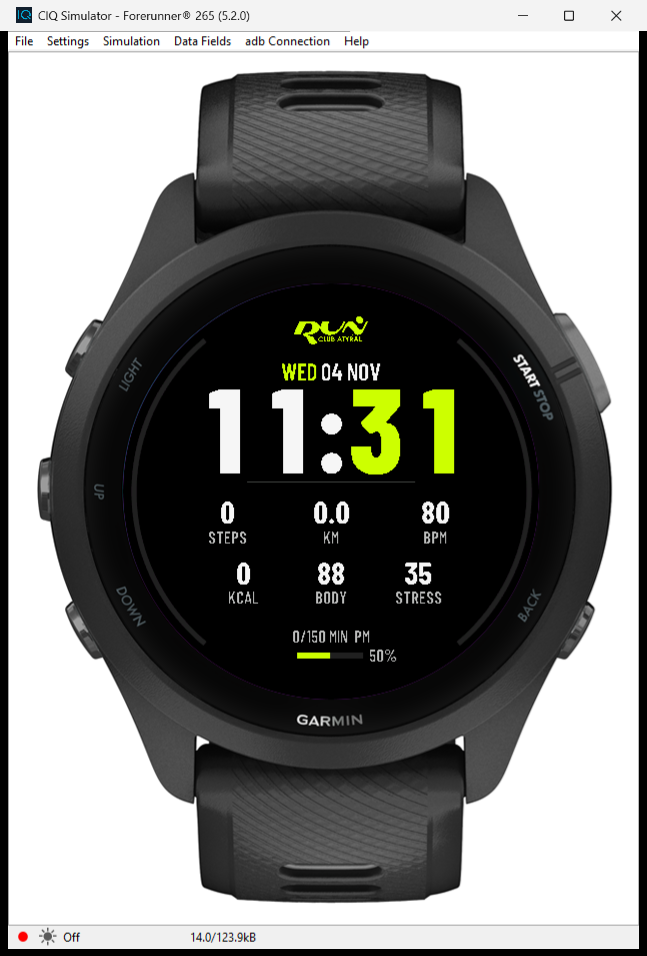
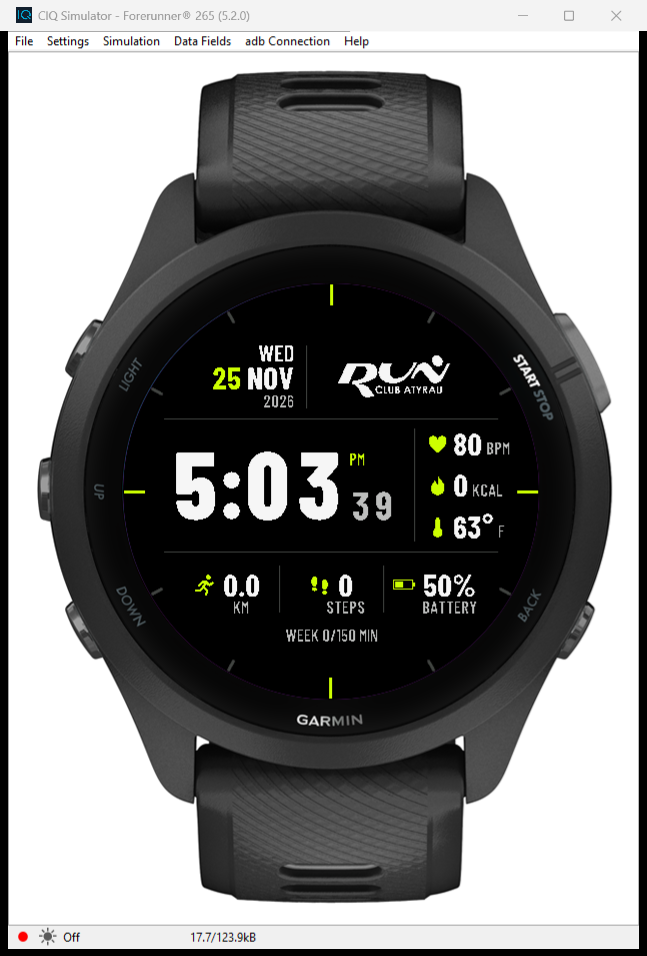
Update README and fr265 preview for the dashboard layout

diff --git a/README.md b/README.md
@@ -6,23 +6,25 @@ Second Run Club Atyrau face. Built on the structure of `../runclub-garmin` (same
 
 ## Layout
 
+Dashboard grid split by thin graphite lines, inspired by a reference mock-up:
+
 | Zone | Content |
 | --- | --- |
-| Top | Small lime club logo (EST masked) |
-| Date | `WED` lime + `04 NOV` white |
-| Clock | Hours white, minutes lime, Barlow ExtraBold; follows 12/24h |
-| Grid row 1 | STEPS · KM · BPM |
-| Grid row 2 | KCAL · BODY (Body Battery) · STRESS |
-| Footer | Weekly intensity minutes `85/150 MIN` (+ AM/PM), battery bar + % |
-| Bezel left | Daily step-goal ring, fills bottom→top |
-| Bezel right | Weekly intensity-minutes ring, fills bottom→top |
+| Bezel | Ticks every 30°, lime at 12/3/6/9 |
+| Top | Date block (`WED` / lime `25` + `NOV` / year) beside the white club logo |
+| Middle | Large `HH:MM`, grey seconds, lime AM/PM in 12-hour mode |
+| Right column | Heart rate · calories · temperature, with lime icons |
+| Bottom row | Distance · steps · battery |
+| Footer | Weekly intensity minutes `WEEK 85/150 MIN` |
 
-Palette is the club's: black, lime `#CCFF00`, white `#F4F4F4`, secondary `#BEBEBE`, graphite for tracks. Layout fractions live in `source/DesignTokens.mc`. Battery bar turns white at ≤15%.
+Palette is the club's: black, lime `#CCFF00`, white `#F4F4F4`, secondary `#BEBEBE`, graphite for lines. Layout fractions live in `source/DesignTokens.mc`. Battery fill turns white at 15% or below.
 
 ## Data
 
-- Steps, distance, calories, floors, intensity minutes (+ goals) from `ActivityMonitor`; goals fall back to 10,000 steps / 150 min.
-- Heart rate: newest positive sample within 5 min. Body Battery and stress: newest `SensorHistory` sample, guarded with `has` checks — devices without them show `--`.
+- Steps, distance, calories and weekly intensity minutes (+ goals) from `ActivityMonitor`; goals fall back to 10,000 steps / 150 min.
+- Heart rate: newest positive sample within 5 min.
+- Temperature: current conditions from the phone-synced forecast (`Toybox.Weather`), shown in °C or °F per the watch setting; `--` before the first sync.
+- Seconds are visible only while the display is active.
 - Refreshed once per minute; no sensors enabled, nothing stored, no network.
 
 ## Sleep
@@ -34,7 +36,7 @@ Identical to the first face: AMOLED shows clock/date/logo in four rotating bands
 The scripts use `.tools/connectiq-sdk` and `.secrets/developer_key.der` here if present, otherwise fall back to the sibling `../runclub-garmin` copies (same developer key, separate app UUID).
 
 ```powershell
-.\scripts\Generate-DesignResources.ps1   # regenerate font atlases
+.\scripts\Generate-DesignResources.ps1   # regenerate font atlases and icons
 .\scripts\Build.ps1 [-Release] [-Device fr265]
 .\scripts\Build.ps1 -Device fr265 -TestBuild
 .\scripts\Simulate.ps1 -Device fr265 [-Tests]
@@ -46,4 +48,4 @@ Outputs are `bin/rcmin-<device>[-release|-tests].prg`. Install by copying the ma
 ## Status
 
 - All 8 targets build without warnings; 4 unit-test suites pass on fr265.
-- Visually checked on fr265 only. Other sizes, sleep mode and physical watches still need checking.
+- Visually checked on fr265, fr255 and fr55. On fr55 and fr255sm the small labels are very small. Sleep mode and physical watches still need checking.
